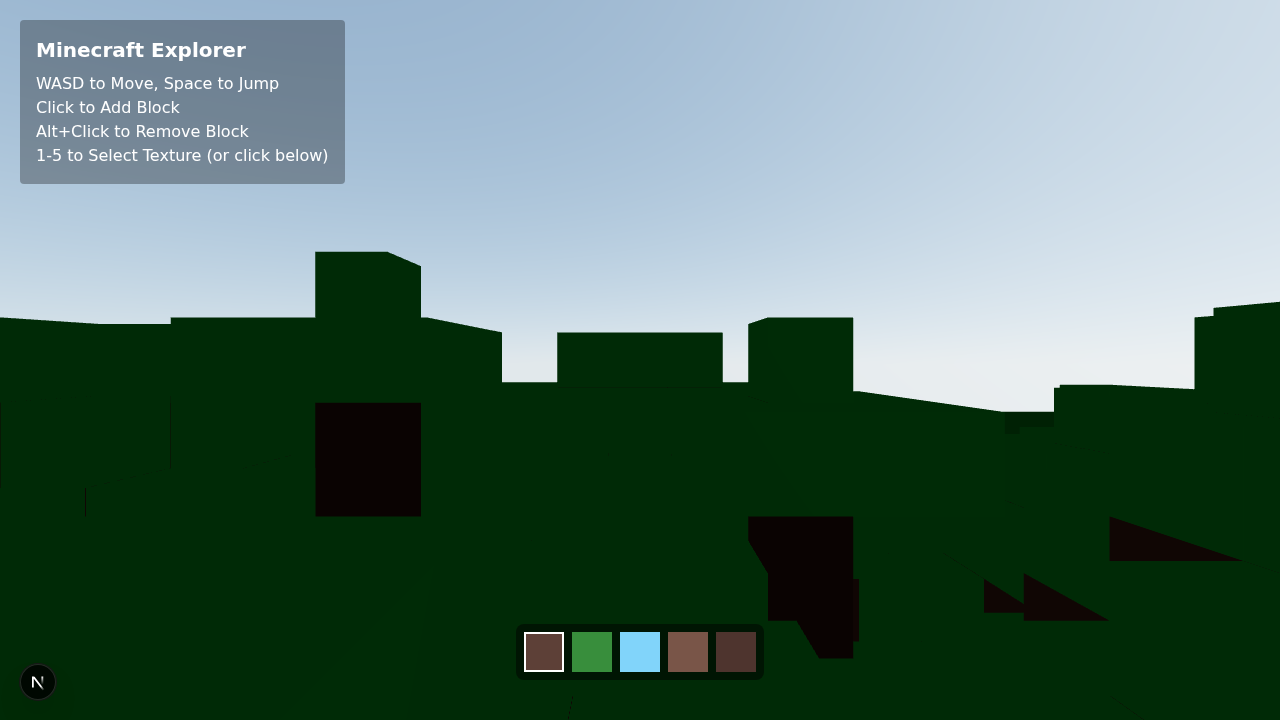
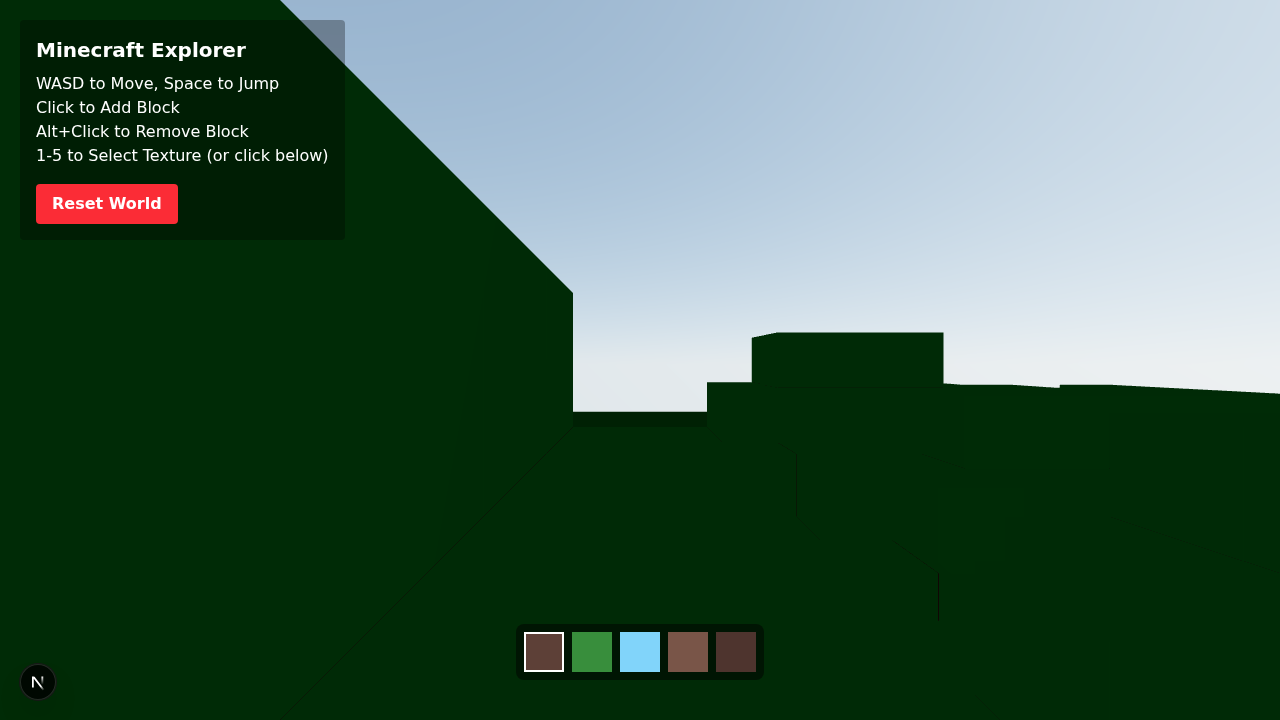
feat: World Persistence and Reset
- Implemented `zustand` persist middleware in `website/lib/store.ts` to save game world to `localStorage`.
- Updated `resetWorld` to regenerate the world instead of emptying it.
- Added "Reset World" button to `website/components/game/Scene.tsx`.
- Updated unit tests in `website/tests/store.test.ts`.
- Added E2E test `website/tests/persistence.spec.ts`.
- Created and closed backlog item `001_world-persistence.md`.

diff --git a/website/lib/store.ts b/website/lib/store.ts
@@ -1,4 +1,5 @@
 import { create } from 'zustand';
+import { persist } from 'zustand/middleware';
 import { generateWorld } from './generation';
 
 export type CubeType = 'dirt' | 'grass' | 'glass' | 'wood' | 'log';
@@ -19,28 +20,36 @@ interface GameState {
   resetWorld: () => void;
 }
 
-export const useStore = create<GameState>((set) => ({
-  texture: 'dirt',
-  cubes: generateWorld(20, 20),
-  addCube: (x, y, z) =>
-    set((state) => ({
-      cubes: [
-        ...state.cubes,
-        {
-          id: Math.random().toString(36).slice(2, 11),
-          pos: [x, y, z],
-          texture: state.texture,
-        },
-      ],
-    })),
-  removeCube: (x, y, z) =>
-    set((state) => ({
-      cubes: state.cubes.filter((cube) => {
-        const [cx, cy, cz] = cube.pos;
-        return cx !== x || cy !== y || cz !== z;
-      }),
-    })),
-  setTexture: (texture) => set(() => ({ texture })),
-  saveWorld: () => {},
-  resetWorld: () => set(() => ({ cubes: [] })),
-}));
+export const useStore = create<GameState>()(
+  persist(
+    (set) => ({
+      texture: 'dirt',
+      cubes: generateWorld(20, 20),
+      addCube: (x, y, z) =>
+        set((state) => ({
+          cubes: [
+            ...state.cubes,
+            {
+              id: Math.random().toString(36).slice(2, 11),
+              pos: [x, y, z],
+              texture: state.texture,
+            },
+          ],
+        })),
+      removeCube: (x, y, z) =>
+        set((state) => ({
+          cubes: state.cubes.filter((cube) => {
+            const [cx, cy, cz] = cube.pos;
+            return cx !== x || cy !== y || cz !== z;
+          }),
+        })),
+      setTexture: (texture) => set(() => ({ texture })),
+      saveWorld: () => {},
+      resetWorld: () => set(() => ({ cubes: generateWorld(20, 20) })),
+    }),
+    {
+      name: 'world-storage',
+      partialize: (state) => ({ cubes: state.cubes }),
+    }
+  )
+);

diff --git a/website/tests/persistence.spec.ts b/website/tests/persistence.spec.ts
@@ -1,0 +1,38 @@
+import { test, expect } from '@playwright/test';
+
+test('world persistence works', async ({ page }) => {
+  await page.goto('/test-repo/game');
+
+  // Wait for canvas
+  await page.waitForSelector('canvas');
+
+  // Verify Reset World button exists
+  const resetButton = page.getByText('Reset World');
+  await expect(resetButton).toBeVisible();
+
+  // Trigger a change to force save. Initial load might not save immediately if state hasn't "changed".
+  await resetButton.click();
+
+  // Wait for store to update and persist
+  await page.waitForTimeout(2000);
+
+  // Check localStorage
+  const storage = await page.evaluate(() => localStorage.getItem('world-storage'));
+  expect(storage).toBeTruthy();
+  const parsed = JSON.parse(storage!);
+  expect(parsed.state.cubes.length).toBeGreaterThan(0);
+  const initialCubes = parsed.state.cubes.length;
+
+  // Reload page
+  await page.reload();
+  await page.waitForSelector('canvas');
+  await page.waitForTimeout(2000);
+
+  // Check localStorage again
+  const storageAfter = await page.evaluate(() => localStorage.getItem('world-storage'));
+  expect(storageAfter).toBeTruthy();
+  const parsedAfter = JSON.parse(storageAfter!);
+
+  // Should verify the count matches (persistence worked)
+  expect(parsedAfter.state.cubes.length).toEqual(initialCubes);
+});

diff --git a/website/tests/store.test.ts b/website/tests/store.test.ts
@@ -6,25 +6,27 @@ describe('Game Store', () => {
     useStore.getState().resetWorld();
   });
 
-  it('should start with empty world after reset', () => {
+  it('should regenerate world after reset', () => {
     const { cubes } = useStore.getState();
-    expect(cubes).toEqual([]);
+    expect(cubes.length).toBeGreaterThan(0);
   });
 
   it('should add a cube', () => {
     const { addCube } = useStore.getState();
-    addCube(1, 2, 3);
+    const initialCount = useStore.getState().cubes.length;
+    // Use coordinates far away from generated world
+    addCube(100, 200, 300);
     const { cubes } = useStore.getState();
-    expect(cubes).toHaveLength(1);
-    expect(cubes[0].pos).toEqual([1, 2, 3]);
+    expect(cubes).toHaveLength(initialCount + 1);
+    expect(cubes.find(c => c.pos[0] === 100 && c.pos[1] === 200 && c.pos[2] === 300)).toBeDefined();
   });
 
   it('should remove a cube', () => {
     const { addCube, removeCube } = useStore.getState();
-    addCube(1, 2, 3);
-    removeCube(1, 2, 3);
+    addCube(100, 200, 300);
+    removeCube(100, 200, 300);
     const { cubes } = useStore.getState();
-    expect(cubes).toHaveLength(0);
+    expect(cubes.find(c => c.pos[0] === 100 && c.pos[1] === 200 && c.pos[2] === 300)).toBeUndefined();
   });
 
   it('should set texture', () => {

diff --git a/website/components/game/Scene.tsx b/website/components/game/Scene.tsx
@@ -11,6 +11,7 @@ import { useStore } from '../../lib/store';
 
 export const Scene = () => {
   const cubes = useStore((state) => state.cubes);
+  const resetWorld = useStore((state) => state.resetWorld);
 
   return (
     <div className="w-full h-screen">
@@ -33,6 +34,12 @@ export const Scene = () => {
         <p>Click to Add Block</p>
         <p>Alt+Click to Remove Block</p>
         <p>1-5 to Select Texture (or click below)</p>
+        <button
+          className="mt-4 px-4 py-2 bg-red-500 hover:bg-red-600 rounded text-white font-bold pointer-events-auto"
+          onClick={resetWorld}
+        >
+          Reset World
+        </button>
       </div>
     </div>
   );

diff --git a/docs/backlog/closed/001_world-persistence.md b/docs/backlog/closed/001_world-persistence.md
@@ -1,0 +1,7 @@
+# World Persistence
+
+## What
+Implement automatic saving of the game world to `localStorage` so that player progress (placed/removed blocks) is preserved between page reloads. Additionally, fix the `resetWorld` functionality to correctly regenerate the world instead of leaving it empty, and expose a "Reset World" button in the UI.
+
+## Why
+Currently, any changes made to the world are lost when the user refreshes the page. This prevents long-term play or creativity. The `resetWorld` function is also currently broken (empties the world), so users have no way to restart a fresh game without clearing browser data manually.
